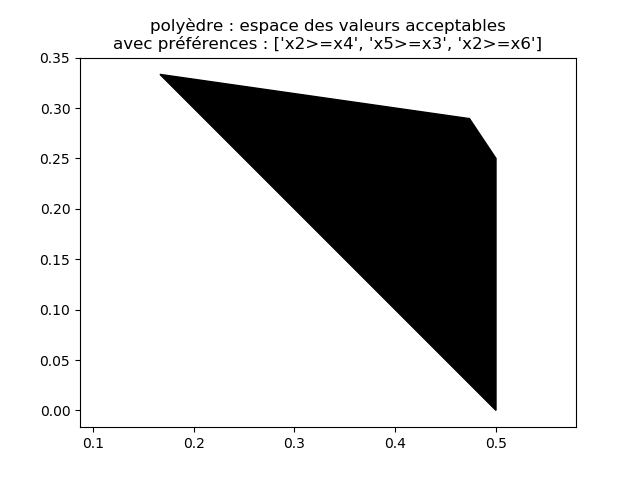
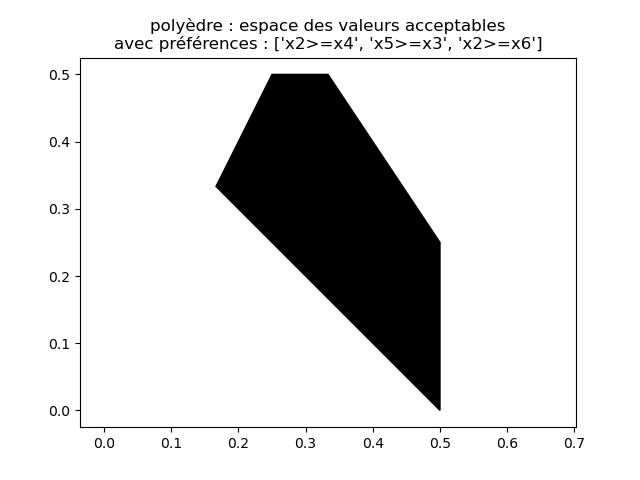
parsing correction

diff --git a/fun4all.py b/fun4all.py
@@ -4,52 +4,37 @@
 import matplotlib.pyplot as plt
 import math
 from loader import load, save
-from parser import parse_equation
 from scipy.optimize import linprog
 import numpy as np
-from sympy import *
 import sys
 
 ###############################################
 #PARTIE A MODIFIER POUR DEFINIR LES PREFERENCES
 #il faut respecter la syntaxe xi>=xj
 pref = ["x1>=x4", "x5>=x3", "x2>=x6"]
+#pref = ["x5>=x2", "x7>=x6", "x3>=x11", "x9>=x10"]
+#pref = ['x2>=x4', 'x5>=x3', 'x2>=x6']
+#pref = ['x3>=x4', 'x5>=x3', 'x2>=x6']
+#pref = ['x5>=x4', 'x5>=x3', 'x2>=x6']
 ###############################################
-
-
-#init sympy pour les simpification d'équations
-x, y = symbols('x y')
 
 #charger les vecteurs (propositions) depuis fun4all.txt
 data = load("fun4all.txt")
 
 print(f"Préférences : {pref}\n\n")
 
-#parsing des équations qui modélisent les préférences
-equations = []
-var = ["x", "y", "(1-x-y)"]
-for rule in pref :
-    expr = ''
-    Lexpr = rule.split(">=")
-    for i in range(len(data[Lexpr[0]])) :
-        dim = data[Lexpr[0]][i]
-        expr += str(dim)+'*'+str(var[i])+' + '
-    expr = expr[:-3]
-    expr+=" >= "
-    for i in range(len(data[Lexpr[1]])) :
-        dim = data[Lexpr[1]][i]
-        expr += str(dim)+'*'+str(var[i])+' + '
-    expr = expr[:-3]
-    equations.append(expr)
-    
-print(f"Equations de préférences : {equations}\n\n")
-
-#simplification des équations et ajout des équations au solveur
+#construction du système linéaire à résoudre par le solveur
 lhs_ineq = []
 rhs_ineq = []
-for eq in equations :
-    a = str(simplify(eq))
-    left, right = parse_equation(a)
+
+for rule in pref :
+    Lexpr = rule.split(">=")
+    data_left = data[str(Lexpr[0])]
+    data_right = data[str(Lexpr[1])]
+    
+    left = [data_right[0]-data_left[0]-data_right[2]+data_left[2], data_right[1]-data_left[1]-data_right[2]+data_left[2]]
+    right = data_left[2]-data_right[2]
+
     lhs_ineq.append(left)
     rhs_ineq.append(right)
 
@@ -81,7 +66,6 @@ if len(sommets) <= 2 :
 #on ajoute le poids w3 calculé à partir de w1 et w2
 for sommet in sommets :
     sommet.append(1-sommet[0]-sommet[1])
-    assert(sum(sommet) == 1)
 
 print(f"Sommets du polyèdre : {sommets}\n\n")
 
@@ -141,4 +125,3 @@ plt.fill(x, y, color='black')
 plt.axis('equal')
 plt.title(f"polyèdre : espace des valeurs acceptables\navec préférences : {pref}")
 plt.savefig(f'polyedre.png')
-#plt.show()
